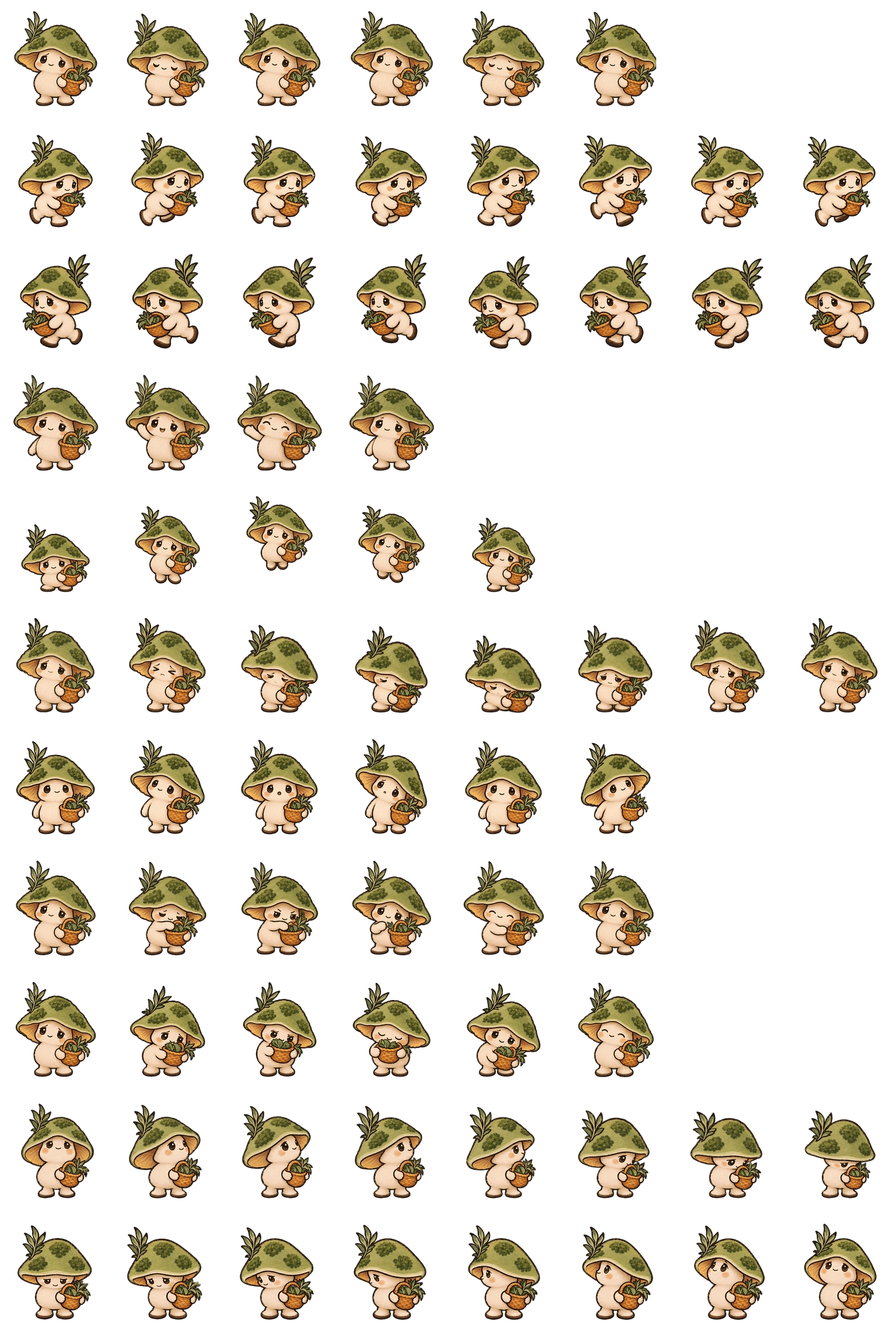
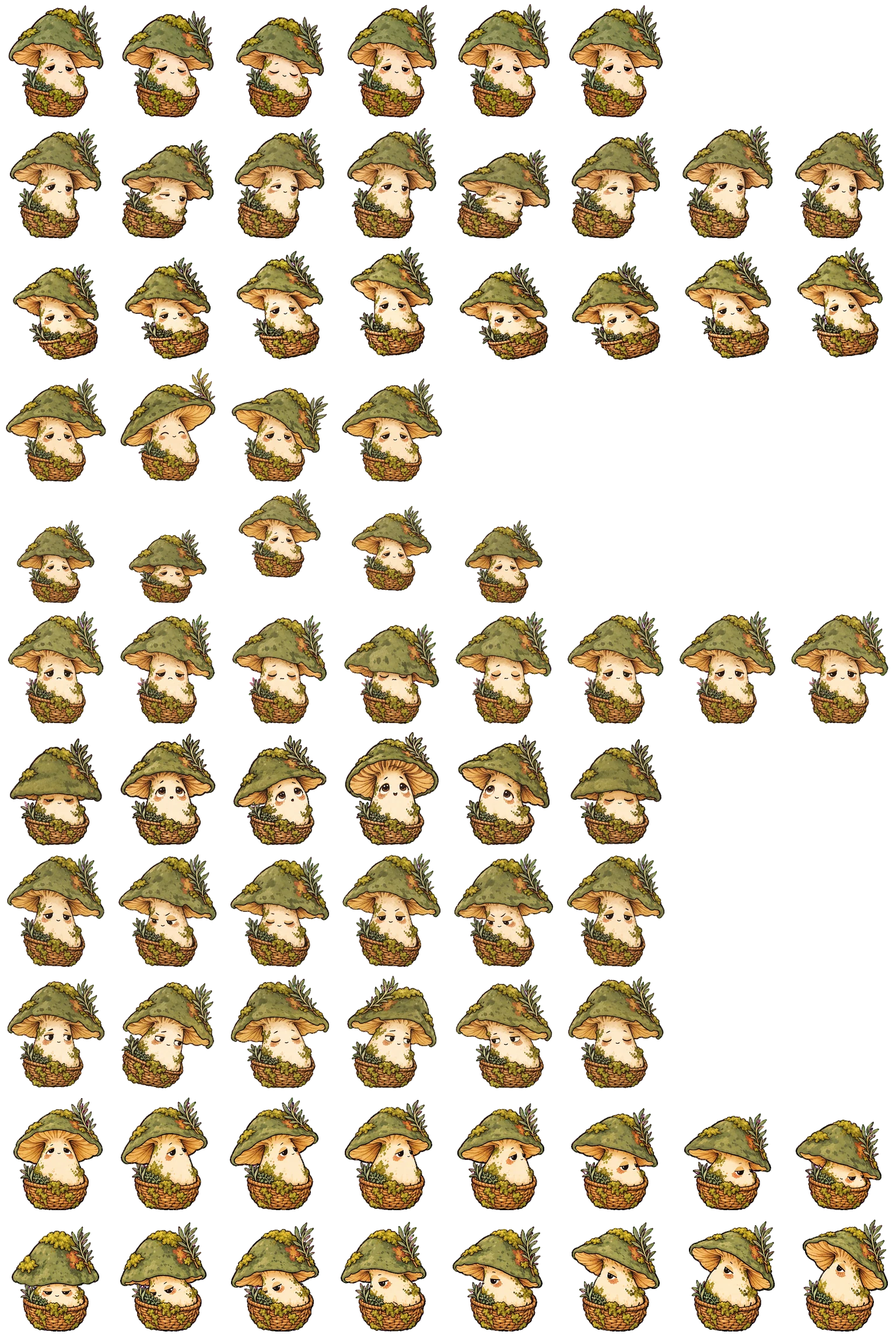
Pets: The Hedge Witch redrawn [skip ci]
The Hedge Witch followed as the approved redraw (Paul: "A for now"; a real woodcut by his mom someday). Paul signed off the sheet ("sign off"). Lossy WebP q88, 964,322 bytes, alpha bit-identical (mean error 5.4/255); the 25 sheets total 19,201,488 bytes. pet-metrics.json and the making-of golden regenerated.

diff --git a/docs/marginarium-pets.md b/docs/marginarium-pets.md
@@ -181,14 +181,15 @@ waving cells at native size and 5x, on white and dark, showed no banding, halo o
[4 lines of base64/hex data omitted]
 
 The Glassblower's redraw (Paul: "Both good") replaced the factory's droplet the same day: a
 clearer drop with a curling tip and a warm light inside. Niko followed, painted the way Pirosmani painted animals: house paint on black oilcloth, the black
 left showing as his patches, a crescent and stars on his shoulder (Paul: "Grounding them in the actual
 techniques their namesake used is the right method here"). The Moon hatched too: her first drawing was withheld because, a crescent seen side-on, she
 couldn't turn to face left; her second, a hand-coloured almanac woodcut (Paul: "The moon one is in
-need of a new drawing"), mirrors her right-facing looks for the left. The Snow Queen followed as Andersen's own paper-cuts: white paper cut from a folded sheet, a snowflake-cut crown, no pins or lace. Medea followed as archaic Greek black-figure painting on a potsherd; the shard never moves, only the ram (Paul's rule). Scherenschnitt was redrawn with a thin cream edge on every cut, so she reads on the dark page (Paul's pick, b). The twenty-five sheets total
-**19,256,368 bytes (18.36 MiB)** of the 24 MiB budget. Dino's, the Glassblower's and Niko's
+need of a new drawing"), mirrors her right-facing looks for the left. The Snow Queen followed as Andersen's own paper-cuts: white paper cut from a folded sheet, a snowflake-cut crown, no pins or lace. Medea followed as archaic Greek black-figure painting on a potsherd; the shard never moves, only the ram (Paul's rule). Scherenschnitt was redrawn with a thin cream edge on every cut, so she reads on the dark page (Paul's pick, b). The Hedge Witch followed as the approved redraw (Paul: "A for now"; a real woodcut by his mom someday). The twenty-five sheets total
+**19,201,488 bytes (18.31 MiB)** of the 24 MiB budget. Dino's, the Glassblower's and Niko's
 first sheets, in the table above, no longer ship. The new ones fill more of their cells than the
 factory's nineteen (top 6 and foot 201 in `pet-metrics.json`, as the Baba Yaga's already did),
 so they stand a little larger beside them.
